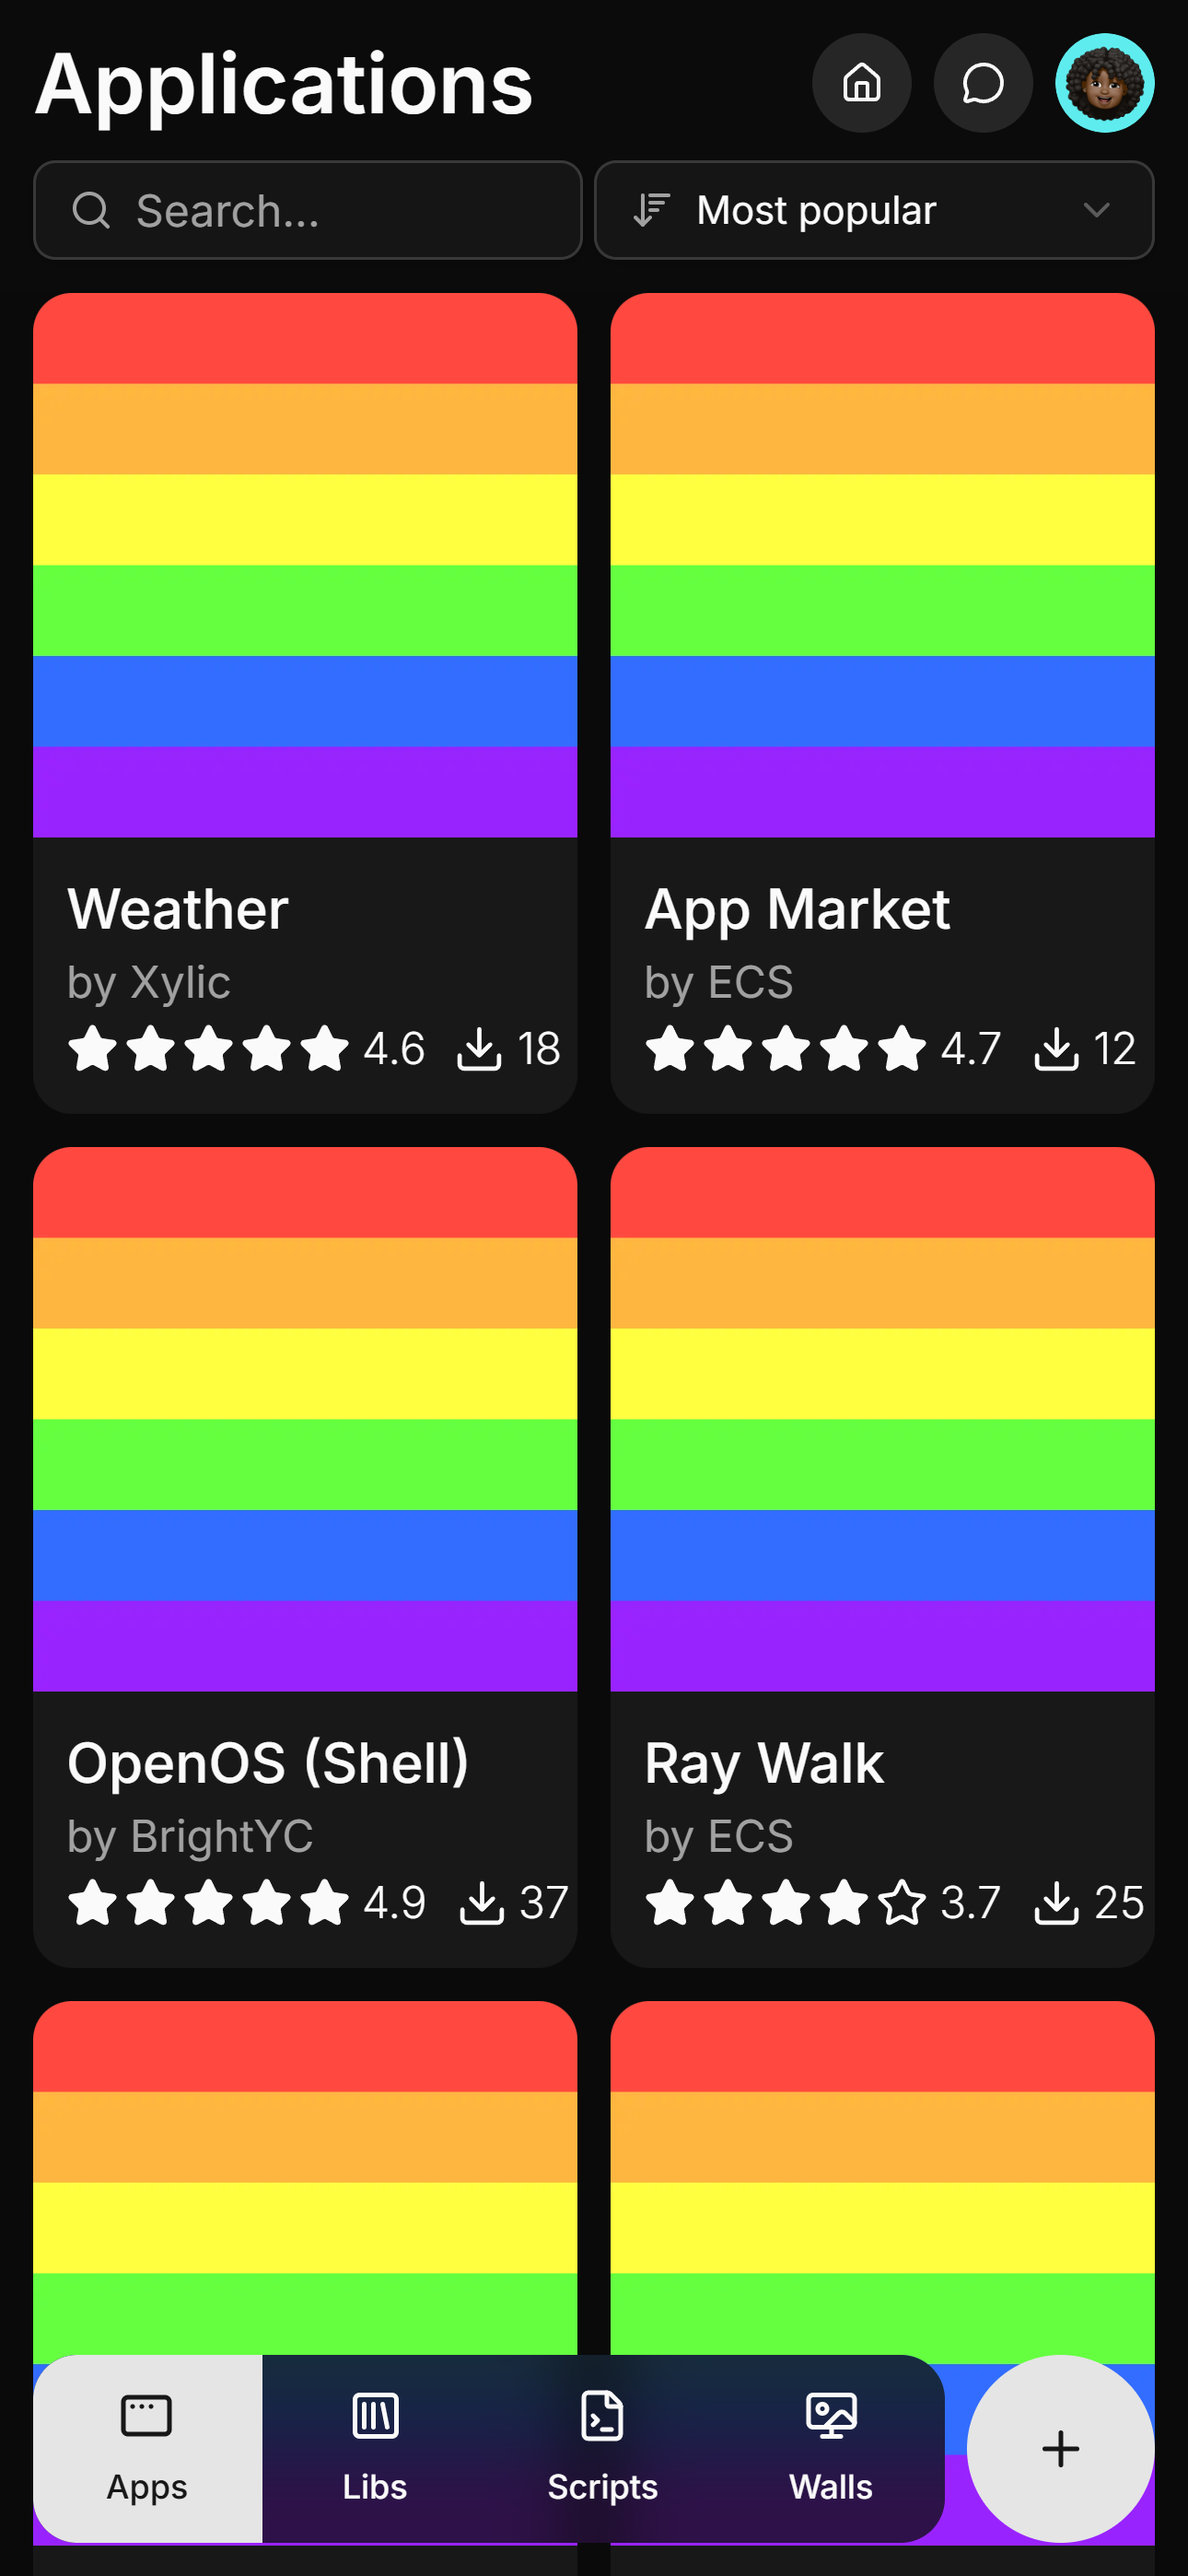
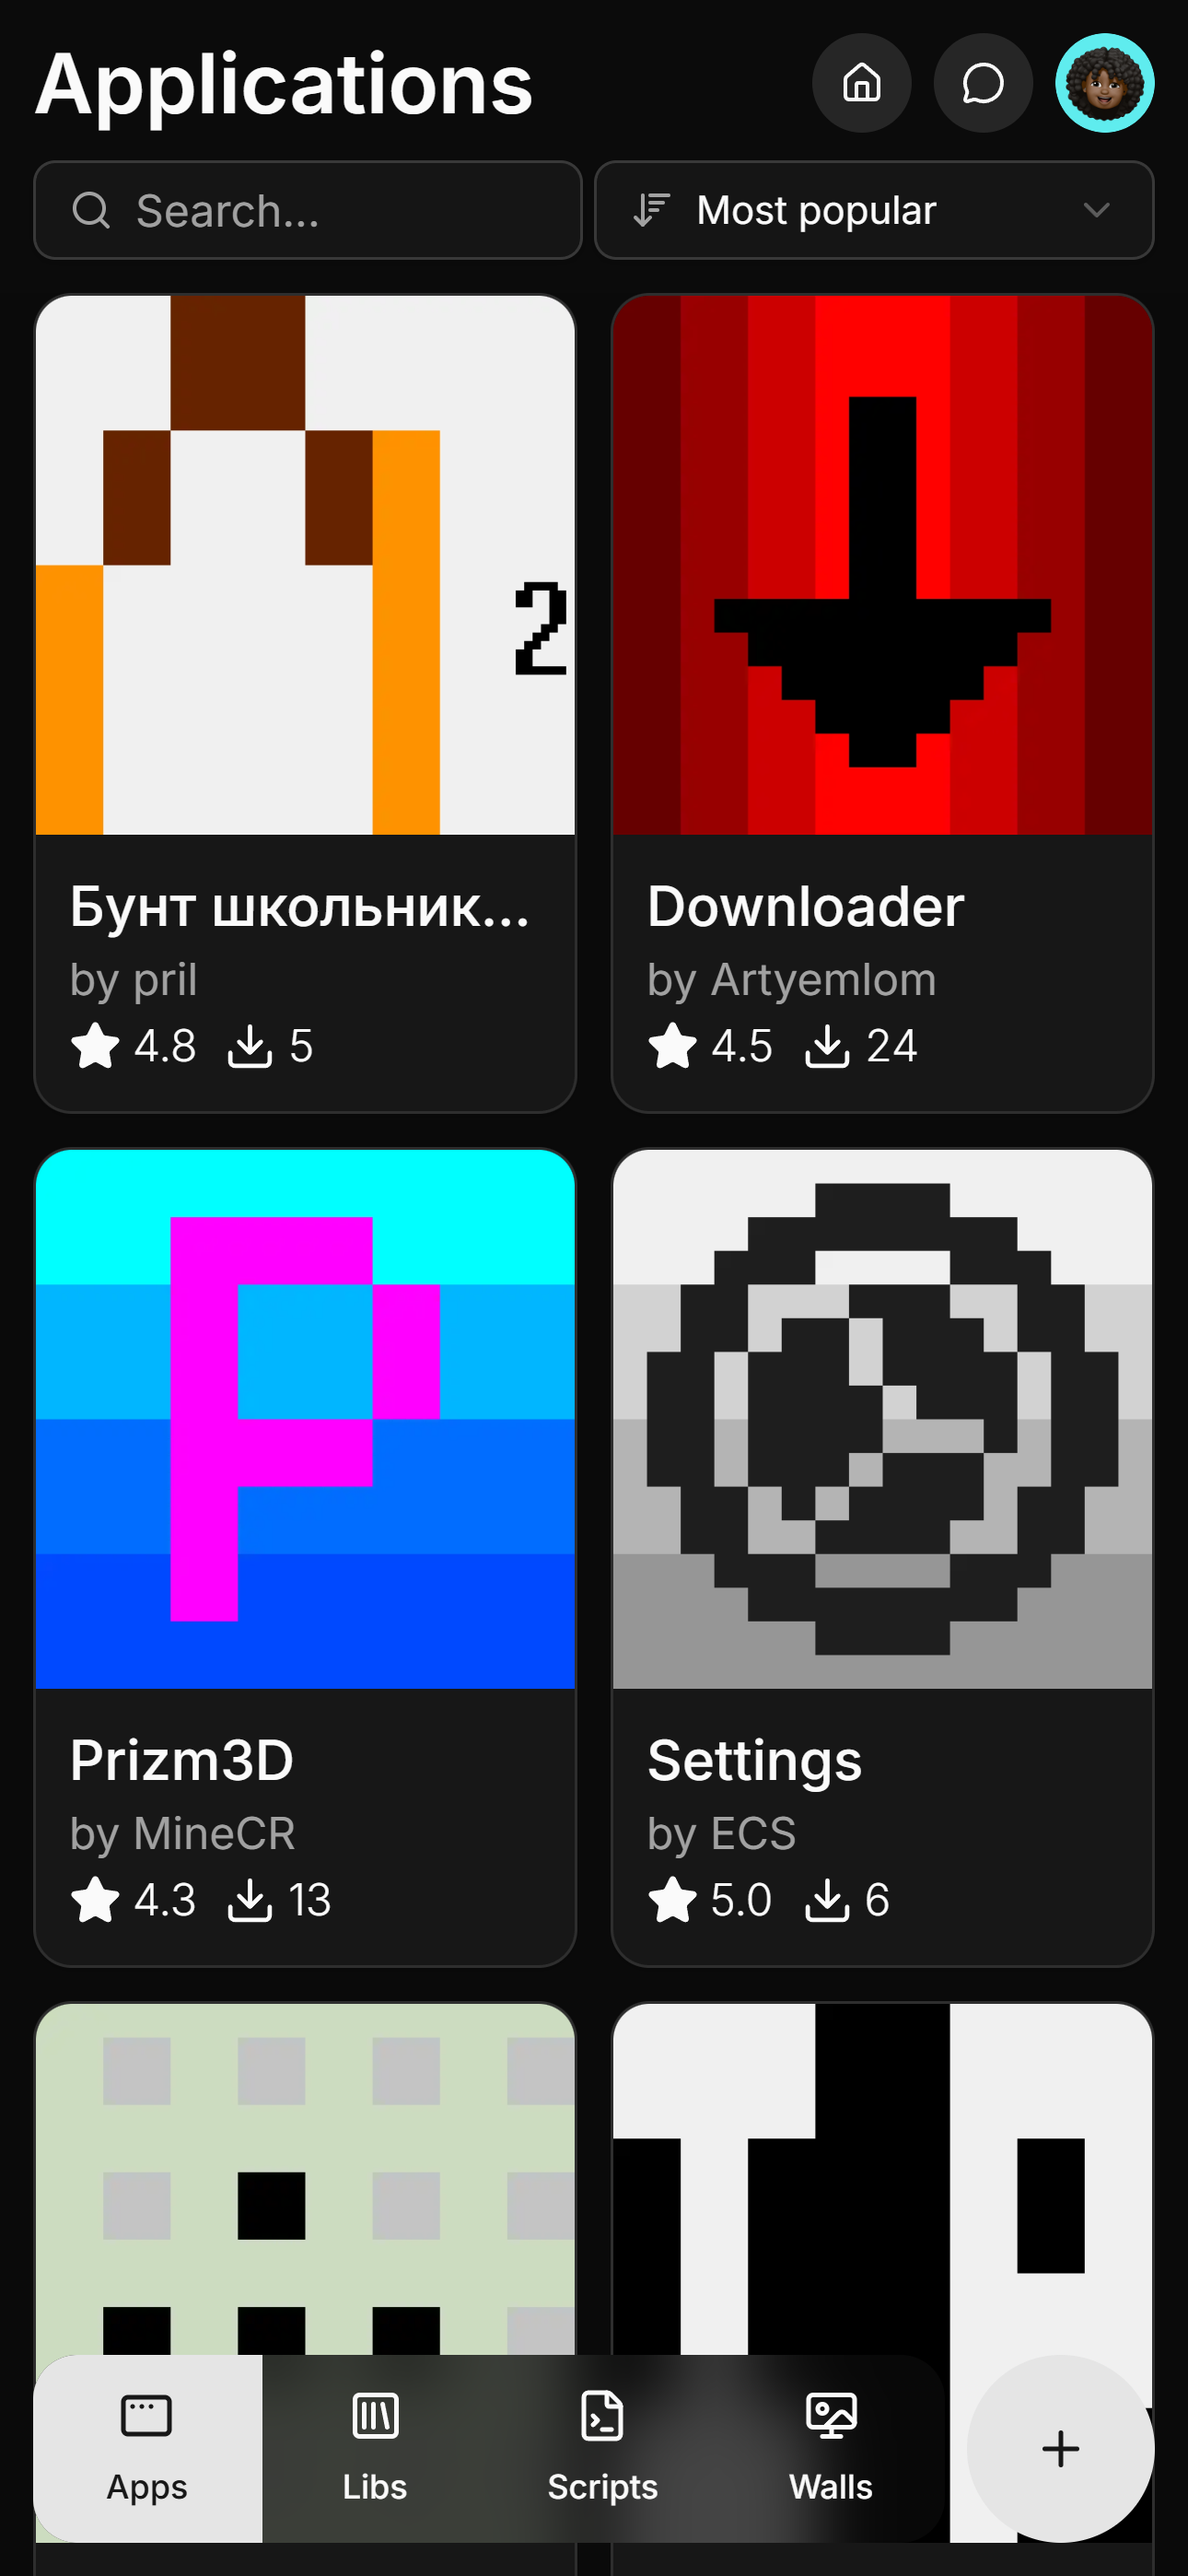
update screenshots and readme

diff --git a/README.md b/README.md
@@ -3,5 +3,3 @@
 ![Preview](public/readme-image.png)
 
 Frontend for [MineOS](https://github.com/IgorTimofeev/MineOS) Market built on Next.js and [mineos-market-js](https://github.com/dnrovs/mineos-market-js).
-
-As there's no JS library or API for OCIF images to convert them, you will see placeholders only.
